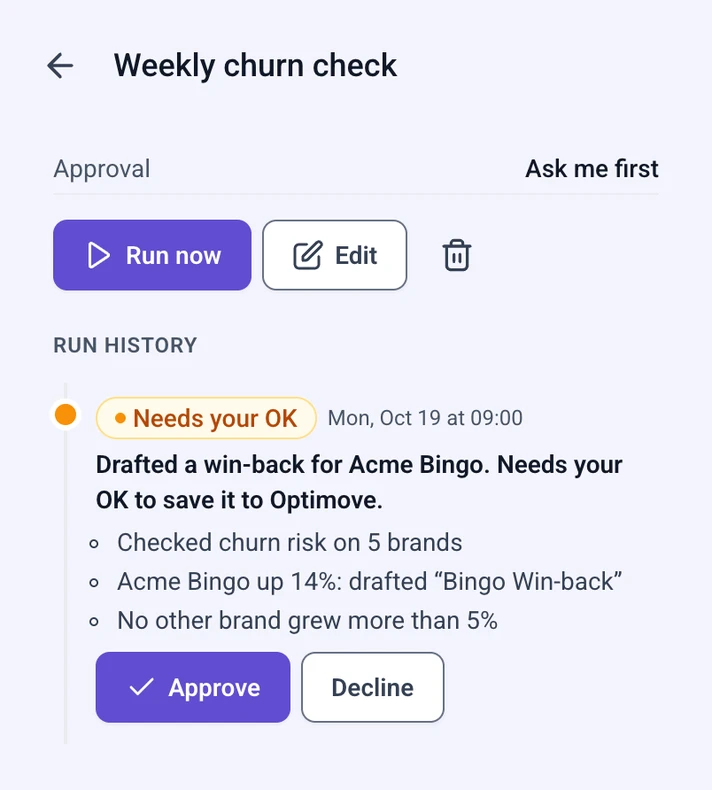
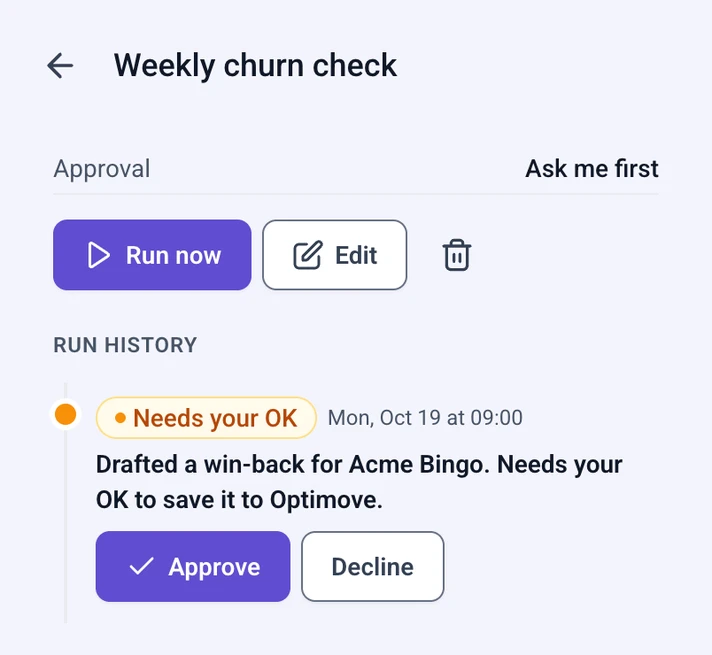
design(optigenie): decision panels on the app's brand-100 (#d8d8fa) so the screens stand off them; decision 03 drops the step bullets

diff --git a/optigenie.html b/optigenie.html
@@ -370,7 +370,7 @@
 .ux-block-head { display: block; margin-bottom: clamp(2rem, 3vw, 3rem); }
 .ux-block-head p { margin-top: .9rem; max-width: 72ch; }
     </style>
-<style>.wireframe-study .wireframe-figure{margin:auto 0 0}.wireframe-study .ads-shot img{cursor:default}@media (min-width:721px){.ads-meta{grid-template-columns:repeat(3,minmax(0,1fr))}}.wireframe-grid.streams-three{grid-template-columns:repeat(3,minmax(0,1fr))}#build .ux-block{margin-top:var(--block-gap)}.ads-wrap > .media-story.media-story--lead{margin-top:0;padding-top:0;border-top:0}.media-story.media-story--lead .ads-h2{max-width:16ch;margin:0 0 1.5rem}@media (max-width:1100px){.wireframe-grid.streams-three{grid-template-columns:minmax(0,1fr)}}.princ,.story-phases article{border-top:0;padding-top:0}.intro-copy .ads-body + .ads-body{margin-top:1rem}#dry-run .story-opening--page + .case-figure,#decisions .story-opening--page + .case-figure{margin-top:clamp(2.5rem,4vw,4rem);padding-top:0;border-top:0}#decisions .case-figure + .case-figure{margin-top:clamp(1.5rem,2.5vw,2.5rem);padding-top:0;border-top:0}.story-phases h3{max-width:none}.og-decisions{display:grid;grid-template-columns:repeat(3,minmax(0,1fr));gap:clamp(1.5rem,2.5vw,2.5rem);margin-top:clamp(3rem,5vw,5rem)}.og-dcard{display:flex;flex-direction:column}.og-dcard__fig{position:relative;margin:0 0 1.75rem;aspect-ratio:1/1;border-radius:24px;background:#ededfb;overflow:hidden}.og-dcard__fig img{position:absolute;left:50%;top:50%;transform:translate(-50%,-50%);width:56%;height:auto;border-radius:16px;box-shadow:0 0 0 1px rgba(29,24,80,.08)}.og-dcard h3{font-size:clamp(1.25rem,1.7vw,1.5rem);line-height:1.2;margin:.75rem 0 .75rem}.og-dcard .phase{display:block;color:var(--violet);font-size:.75rem;font-weight:600;line-height:1.5;letter-spacing:.12em;text-transform:uppercase}.og-dcard > p:not(.og-instead){margin:0;font-size:clamp(1rem,1.1vw,1.125rem);line-height:1.7;color:var(--text);max-width:42ch}.og-dcard .og-instead{margin-top:auto;padding-top:1.25rem}.og-dcard > p:not(.og-instead){margin-bottom:1.5rem}@media (max-width:900px){.og-decisions{grid-template-columns:minmax(0,1fr)}.og-dcard__fig{aspect-ratio:1/1}}.og-vs{display:grid;grid-template-columns:1fr 1fr;margin-top:1rem;text-align:center;font-size:.85rem;font-weight:600;color:var(--muted)}.og-vs span:last-child{color:var(--violet)}.og-instead{margin-top:1.75rem;padding-top:1.25rem;border-top:1px solid var(--line);color:var(--muted);font-size:.95rem;line-height:1.55}.og-instead span{display:block;color:var(--violet);font-size:.7rem;font-weight:600;letter-spacing:.12em;text-transform:uppercase;margin-bottom:.4rem}.story-opening--page .intro-copy{max-width:110ch}@media (min-width:1500px){.story-phases h3{white-space:nowrap}}@media (min-width:1100px){}</style>
+<style>.wireframe-study .wireframe-figure{margin:auto 0 0}.wireframe-study .ads-shot img{cursor:default}@media (min-width:721px){.ads-meta{grid-template-columns:repeat(3,minmax(0,1fr))}}.wireframe-grid.streams-three{grid-template-columns:repeat(3,minmax(0,1fr))}#build .ux-block{margin-top:var(--block-gap)}.ads-wrap > .media-story.media-story--lead{margin-top:0;padding-top:0;border-top:0}.media-story.media-story--lead .ads-h2{max-width:16ch;margin:0 0 1.5rem}@media (max-width:1100px){.wireframe-grid.streams-three{grid-template-columns:minmax(0,1fr)}}.princ,.story-phases article{border-top:0;padding-top:0}.intro-copy .ads-body + .ads-body{margin-top:1rem}#dry-run .story-opening--page + .case-figure,#decisions .story-opening--page + .case-figure{margin-top:clamp(2.5rem,4vw,4rem);padding-top:0;border-top:0}#decisions .case-figure + .case-figure{margin-top:clamp(1.5rem,2.5vw,2.5rem);padding-top:0;border-top:0}.story-phases h3{max-width:none}.og-decisions{display:grid;grid-template-columns:repeat(3,minmax(0,1fr));gap:clamp(1.5rem,2.5vw,2.5rem);margin-top:clamp(3rem,5vw,5rem)}.og-dcard{display:flex;flex-direction:column}.og-dcard__fig{position:relative;margin:0 0 1.75rem;aspect-ratio:1/1;border-radius:24px;background:#d8d8fa;overflow:hidden}.og-dcard__fig img{position:absolute;left:50%;top:50%;transform:translate(-50%,-50%);width:56%;height:auto;border-radius:16px;box-shadow:0 0 0 1px rgba(29,24,80,.10)}.og-dcard h3{font-size:clamp(1.25rem,1.7vw,1.5rem);line-height:1.2;margin:.75rem 0 .75rem}.og-dcard .phase{display:block;color:var(--violet);font-size:.75rem;font-weight:600;line-height:1.5;letter-spacing:.12em;text-transform:uppercase}.og-dcard > p:not(.og-instead){margin:0;font-size:clamp(1rem,1.1vw,1.125rem);line-height:1.7;color:var(--text);max-width:42ch}.og-dcard .og-instead{margin-top:auto;padding-top:1.25rem}.og-dcard > p:not(.og-instead){margin-bottom:1.5rem}@media (max-width:900px){.og-decisions{grid-template-columns:minmax(0,1fr)}.og-dcard__fig{aspect-ratio:1/1}}.og-vs{display:grid;grid-template-columns:1fr 1fr;margin-top:1rem;text-align:center;font-size:.85rem;font-weight:600;color:var(--muted)}.og-vs span:last-child{color:var(--violet)}.og-instead{margin-top:1.75rem;padding-top:1.25rem;border-top:1px solid var(--line);color:var(--muted);font-size:.95rem;line-height:1.55}.og-instead span{display:block;color:var(--violet);font-size:.7rem;font-weight:600;letter-spacing:.12em;text-transform:uppercase;margin-bottom:.4rem}.story-opening--page .intro-copy{max-width:110ch}@media (min-width:1500px){.story-phases h3{white-space:nowrap}}@media (min-width:1100px){}</style>
 <style>
 /* Animated pencil sketches (sketch_anim.py). Without the .is-armed hook everything is simply drawn. */
 @font-face{font-family:Caveat;font-style:normal;font-weight:500;font-display:swap;src:url(./assets/streams/caveat-500.ttf) format("truetype")}
@@ -898,7 +898,7 @@ body::after { content: ""; position: fixed; inset: 0; z-index: 9000; pointer-eve
             <p class="sub fade-up">OptiGenie is Optimove’s AI assistant for CRM marketers and the managers who follow their work. I led its first mobile app from the UX and feature set to the MVP.</p>
         </div></section>
         <section class="ads-sec ads-sec--mist" id="challenge" data-rail="The challenge"><div class="ads-wrap"><div class="story-opening story-opening--page story-opening--sketch"><div class="ads-head fade-up"><p class="ads-label page-chapter">The challenge</p><h2 class="ads-h2">Bringing OptiGenie to mobile</h2><p class="ads-body">OptiGenie 3.1 had grown on desktop, with memory, artifacts, dashboards and scheduled tasks, all inside one long conversation. I led its move to the phone, a strategic product for the company, from the first UX decisions and feature set to the MVP.</p><p class="ads-body">On the phone it serves two users with overlapping needs. CRM marketers want a fast, clear update and a bird’s-eye view of their brands and campaigns, then to act on what needs them. Managers want the picture of the marketing activity without running it. Rather than two apps, both start from the same summary and go as deep as they need: Dashboards for the view at a glance, Explore and Tasks for acting on it.</p><p class="ads-body">Three things made that hard.</p><p class="ads-body"><strong>A lot to look at, one right story.</strong> Optimove holds a lot of data and a lot of things to view: brands, campaigns, customers and channels, plus memory, artifacts, dashboards and tasks. On a small screen it can’t all be shown at once, so the app has to navigate it for the marketer and tell the right story: what changed, what matters and what needs them.</p><p class="ads-body"><strong>Answers came as paragraphs.</strong> The figures were right, but on a small screen the marketer read a wall of words to find the one number that mattered.</p><p class="ads-body"><strong>The AI acts on its own.</strong> Tasks run on a schedule and can change campaigns, so the marketer has to see what it did and decide what it may do without asking.</p><p class="ads-body">The work was to answer all three in one product for the phone, on the Optimove design system.</p></div><figure class="story-sketch fade-up" tabindex="0" aria-label="The challenge; scroll sideways on small screens"><svg class="mg" id="mg-og-challenge" viewBox="0 0 520 710" role="img" aria-label="OptiGenie 3.1 on desktop (memory, artifacts, dashboards and tasks) becomes one mobile app on the Optimove design system: Optimove's first mobile app, led from UX to MVP, and growing past the MVP." data-dur="7.6" xmlns="http://www.w3.org/2000/svg"><g aria-hidden="true"><g class="drop" style="--d:0.00s"><rect x="40" y="29" width="440" height="160" rx="16" fill="#aca4ea" stroke="#1d1850" stroke-width="2.0"/><rect x="40" y="20" width="440" height="160" rx="16" fill="#ffffff" stroke="#1d1850" stroke-width="2.0"/><path d="M51.2 23.2 H468.8" stroke="#ffffff" stroke-width="2.4" stroke-linecap="round" opacity=".75" fill="none"/><g transform="translate(260.0 60) scale(1.0)"><path class="tx" d="M-20 -14 H20 V10 H-20 Z" fill="#ffffff" stroke="none" style="--d:0.40s;--t:.3s"/><path class="dr" d="M-20 -14 H20 V10 H-20 Z" pathLength="1" fill="none" stroke="#1d1850" stroke-width="3.0" stroke-linecap="round" stroke-linejoin="round" style="--d:0.30s;--t:0.35s"/><path class="dr" d="M-6 10 V16 M6 10 V16 M-10 16 H10" pathLength="1" fill="none" stroke="#1d1850" stroke-width="3.0" stroke-linecap="round" stroke-linejoin="round" style="--d:0.42s;--t:0.35s"/></g><g class="pop" style="--d:0.45s"><circle cx="466" cy="26" r="17" fill="#4a37c9" stroke="#1d1850" stroke-width="2.0"/><circle cx="466" cy="22" r="17" fill="#8f7af8" stroke="#1d1850" stroke-width="2.0"/><g transform="translate(466 22) scale(0.45)"><path class="dr" d="M0 -18 C1.5 -6 6 -1.5 18 0 C6 1.5 1.5 6 0 18 C-1.5 6 -6 1.5 -18 0 C-6 -1.5 -1.5 -6 0 -18 Z" pathLength="1" fill="none" stroke="#ffffff" stroke-width="4.4" stroke-linecap="round" stroke-linejoin="round" style="--d:0.65s;--t:0.35s"/></g></g></g><text class="w" x="260.0" y="106" font-size="25" font-weight="800" text-anchor="middle" fill="#1d1850" data-max="416" style="--d:0.30s;--t:0.45s">OptiGenie 3.1</text><text class="tx mut" x="260.0" y="133" font-size="16" font-weight="500" text-anchor="middle" fill="#1d1850" data-max="416" style="--d:0.45s;--t:0.40s">on desktop: memory, artifacts,</text><text class="tx mut" x="260.0" y="155" font-size="16" font-weight="500" text-anchor="middle" fill="#1d1850" data-max="416" style="--d:0.53s;--t:0.40s">dashboards and tasks</text><path class="dr" d="M260 194 Q260.0 215.0 260 236" pathLength="1" fill="none" stroke="#1d1850" stroke-width="2.8" stroke-linecap="round" style="--d:0.70s;--t:0.30s"/><path class="dr" d="M254.7 226.3 L260 236 L265.3 226.3" pathLength="1" fill="none" stroke="#1d1850" stroke-width="2.8" stroke-linecap="round" stroke-linejoin="round" style="--d:0.94s;--t:.2s"/><g class="drop" style="--d:1.00s"><rect x="40" y="259" width="440" height="160" rx="16" fill="#c6e92b" stroke="#1d1850" stroke-width="2.0"/><rect x="40" y="250" width="440" height="160" rx="16" fill="#ffffff" stroke="#1d1850" stroke-width="2.0"/><path d="M51.2 253.2 H468.8" stroke="#ffffff" stroke-width="2.4" stroke-linecap="round" opacity=".75" fill="none"/><g transform="translate(260.0 290) scale(1.0)"><path class="tx" d="M-12 -20 H12 V20 H-12 Z" fill="#ffffff" stroke="none" style="--d:1.40s;--t:.3s"/><path class="dr" d="M-12 -20 H12 V20 H-12 Z" pathLength="1" fill="none" stroke="#1d1850" stroke-width="3.0" stroke-linecap="round" stroke-linejoin="round" style="--d:1.30s;--t:0.35s"/><path class="dr" d="M-4 15 H4" pathLength="1" fill="none" stroke="#1d1850" stroke-width="3.0" stroke-linecap="round" stroke-linejoin="round" style="--d:1.42s;--t:0.35s"/></g></g><text class="w" x="260.0" y="336" font-size="25" font-weight="800" text-anchor="middle" fill="#1d1850" data-max="416" style="--d:1.30s;--t:0.45s">One mobile app</text><text class="tx mut" x="260.0" y="363" font-size="16" font-weight="500" text-anchor="middle" fill="#1d1850" data-max="416" style="--d:1.45s;--t:0.40s">on the Optimove</text><text class="tx mut" x="260.0" y="385" font-size="16" font-weight="500" text-anchor="middle" fill="#1d1850" data-max="416" style="--d:1.53s;--t:0.40s">design system</text><path class="dr" d="M260 424 Q260.0 445.0 260 466" pathLength="1" fill="none" stroke="#1d1850" stroke-width="2.8" stroke-linecap="round" style="--d:1.70s;--t:0.30s"/><path class="dr" d="M254.7 456.3 L260 466 L265.3 456.3" pathLength="1" fill="none" stroke="#1d1850" stroke-width="2.8" stroke-linecap="round" stroke-linejoin="round" style="--d:1.94s;--t:.2s"/><g class="drop" style="--d:2.00s"><rect x="40" y="489" width="440" height="160" rx="16" fill="#aca4ea" stroke="#1d1850" stroke-width="2.0"/><rect x="40" y="480" width="440" height="160" rx="16" fill="#ffffff" stroke="#1d1850" stroke-width="2.0"/><path d="M51.2 483.2 H468.8" stroke="#ffffff" stroke-width="2.4" stroke-linecap="round" opacity=".75" fill="none"/><g transform="translate(260.0 520) scale(1.0)"><path class="tx" d="M-18 0 a18 18 0 1 0 36 0 a18 18 0 1 0 -36 0" fill="#ffffff" stroke="none" style="--d:2.40s;--t:.3s"/><path class="dr" d="M-18 0 a18 18 0 1 0 36 0 a18 18 0 1 0 -36 0" pathLength="1" fill="none" stroke="#1d1850" stroke-width="3.0" stroke-linecap="round" stroke-linejoin="round" style="--d:2.30s;--t:0.35s"/><path class="dr" d="M-5 -8 L9 0 L-5 8 Z" pathLength="1" fill="none" stroke="#1d1850" stroke-width="3.0" stroke-linecap="round" stroke-linejoin="round" style="--d:2.42s;--t:0.35s"/></g></g><text class="w" x="260.0" y="566" font-size="25" font-weight="800" text-anchor="middle" fill="#1d1850" data-max="416" style="--d:2.30s;--t:0.45s">A strategic first</text><text class="tx mut" x="260.0" y="593" font-size="16" font-weight="500" text-anchor="middle" fill="#1d1850" data-max="416" style="--d:2.45s;--t:0.40s">Optimove’s first mobile app,</text><text class="tx mut" x="260.0" y="615" font-size="16" font-weight="500" text-anchor="middle" fill="#1d1850" data-max="416" style="--d:2.53s;--t:0.40s">led from UX to MVP</text><text class="tx mut" x="260" y="690" font-size="17" font-weight="600" text-anchor="middle" fill="#1d1850" data-max="400" style="--d:2.70s;--t:0.40s">and growing past the MVP</text></g></svg></figure></div></div></section>
-        <section class="ads-sec" id="discovery" data-rail="Discovery &amp; definition"><div class="ads-wrap"><p class="ads-label page-chapter fade-up">Discovery &amp; definition</p><div class="story-opening story-opening--page story-opening--stack"><div class="ads-head fade-up"><h2 class="ads-h2">Main UX decisions</h2></div><div class="intro-copy fade-up"><p class="ads-body">Bringing OptiGenie 3.1 from desktop to the phone meant more than fitting it on a smaller screen. On desktop it is a long conversation in a wide window; on a phone, a visit is often a quick check. Every call came back to one question: what does the marketer need in the first few seconds, and what can wait a tap away. These are the decisions that shaped the app most: where you start, where things live, what the AI does on its own, and how it shows an answer.</p></div></div><div class="og-decisions"><article class="og-dcard fade-up"><figure class="og-dcard__fig"><img loading="lazy" decoding="async" src="./assets/optigenie/dec-home.webp?v=86b87a72cff6" width="712" height="862" alt="The OptiGenie home: a greeting, the next scheduled tasks under Coming up, and two suggested questions."></figure><span class="phase">01 · Starting point</span><h3>Open on what matters</h3><p>The home says what OptiGenie can do and what is coming up next, and suggests the questions worth asking.</p><p class="og-instead"><span>Instead of</span> an empty box waiting for the right question.</p></article><article class="og-dcard fade-up"><figure class="og-dcard__fig"><img loading="lazy" decoding="async" src="./assets/optigenie/dec-tabs.webp?v=cd8b29443c0f" width="712" height="1113" alt="The Dashboards tab: a live Deposits yesterday dashboard with its chart and refresh time, and the Explore and Dashboards switch at the bottom."></figure><span class="phase">02 · Structure</span><h3>Explore and Dashboards as tabs</h3><p>Marketers ask new questions, and they check the same numbers every morning. The views they follow get their own tab, refreshed on a schedule, a swipe from where they ask: the conversation is the way in, not the whole product. Everything else sits in one menu, on every screen.</p><p class="og-instead"><span>Instead of</span> one long chat history that holds everything.</p></article><article class="og-dcard fade-up"><figure class="og-dcard__fig"><img loading="lazy" decoding="async" src="./assets/optigenie/dec-approval.webp?v=bac02dbf3287" width="712" height="790" alt="The Weekly churn check task, set to Approval: Ask me first, with Run now and Edit. Its latest run Needs your OK: the steps OptiGenie took, a drafted win-back for Acme Bingo, and Approve and Decline."></figure><span class="phase">03 · Trust</span><h3>Visible steps, approval by choice</h3><p>OptiGenie shows the steps it takes while it works. Whether a task asks before it changes anything in Optimove is the marketer’s call: Ask me first or Run on its own. Sending to customers always asks.</p><p class="og-instead"><span>Instead of</span> an AI that acts without showing what it did.</p></article></div><div class="media-story"><div class="media-story-copy fade-up"><div><p class="media-kicker">04 · Answers</p><h3>Answers you can see, not read</h3></div><div><p>The model answered in text. The figures were there, but on a phone the marketer had to read through a list of numbers to find the point.</p><p>My call was to teach the model how we build. I adapted the skill I built for composing Optimove screens: the component catalog, which block fits which kind of figure, and how a dashboard tells its story. With it, the model answers in blocks that the app draws with its own components: the point in one sentence, a key figure with its change, the chart that fits, and a short takeaway.</p><p>Same question, same data: on the left the model on its own, on the right with the skill, which builds the answer as a small dashboard. In a test on eight questions from the app, the text answers averaged about 105 words and 20 numbers. With the skill they averaged 35 words, with the figures in charts and cards. See the skill on the AI skills for product design page.</p></div></div><figure class="case-figure fade-up" style="--media-max:900px"><div class="ads-shot recording-frame" data-title="The same question, How are my brands doing?, answered twice and scrolled. Left, the model on its own: bullet lists of figures. Right, with the skill: a dashboard with a hero card of deposits and a week of bars, KPI cards with their changes and a breakdown by brand."><video src="./assets/optigenie/og-answers-skill.mp4?v=9c0c17fae960" poster="./assets/optigenie/og-answers-skill-poster.webp?v=5db4326e23c1" width="1896" height="1692" loop muted playsinline preload="none" aria-label="The same question, How are my brands doing?, answered twice and scrolled. Left, the model on its own: bullet lists of figures. Right, with the skill: a dashboard with a hero card of deposits and a week of bars, KPI cards with their changes and a breakdown by brand."></video></div><figcaption class="og-vs"><span>Without the skill</span><span>With the skill</span></figcaption></figure></div></div></section>
+        <section class="ads-sec" id="discovery" data-rail="Discovery &amp; definition"><div class="ads-wrap"><p class="ads-label page-chapter fade-up">Discovery &amp; definition</p><div class="story-opening story-opening--page story-opening--stack"><div class="ads-head fade-up"><h2 class="ads-h2">Main UX decisions</h2></div><div class="intro-copy fade-up"><p class="ads-body">Bringing OptiGenie 3.1 from desktop to the phone meant more than fitting it on a smaller screen. On desktop it is a long conversation in a wide window; on a phone, a visit is often a quick check. Every call came back to one question: what does the marketer need in the first few seconds, and what can wait a tap away. These are the decisions that shaped the app most: where you start, where things live, what the AI does on its own, and how it shows an answer.</p></div></div><div class="og-decisions"><article class="og-dcard fade-up"><figure class="og-dcard__fig"><img loading="lazy" decoding="async" src="./assets/optigenie/dec-home.webp?v=86b87a72cff6" width="712" height="862" alt="The OptiGenie home: a greeting, the next scheduled tasks under Coming up, and two suggested questions."></figure><span class="phase">01 · Starting point</span><h3>Open on what matters</h3><p>The home says what OptiGenie can do and what is coming up next, and suggests the questions worth asking.</p><p class="og-instead"><span>Instead of</span> an empty box waiting for the right question.</p></article><article class="og-dcard fade-up"><figure class="og-dcard__fig"><img loading="lazy" decoding="async" src="./assets/optigenie/dec-tabs.webp?v=cd8b29443c0f" width="712" height="1113" alt="The Dashboards tab: a live Deposits yesterday dashboard with its chart and refresh time, and the Explore and Dashboards switch at the bottom."></figure><span class="phase">02 · Structure</span><h3>Explore and Dashboards as tabs</h3><p>Marketers ask new questions, and they check the same numbers every morning. The views they follow get their own tab, refreshed on a schedule, a swipe from where they ask: the conversation is the way in, not the whole product. Everything else sits in one menu, on every screen.</p><p class="og-instead"><span>Instead of</span> one long chat history that holds everything.</p></article><article class="og-dcard fade-up"><figure class="og-dcard__fig"><img loading="lazy" decoding="async" src="./assets/optigenie/dec-approval.webp?v=2be99e6d69ad" width="712" height="655" alt="The Weekly churn check task, set to Approval: Ask me first, with Run now and Edit. Its latest run Needs your OK: a drafted win-back for Acme Bingo, with Approve and Decline."></figure><span class="phase">03 · Trust</span><h3>Visible steps, approval by choice</h3><p>OptiGenie shows the steps it takes while it works. Whether a task asks before it changes anything in Optimove is the marketer’s call: Ask me first or Run on its own. Sending to customers always asks.</p><p class="og-instead"><span>Instead of</span> an AI that acts without showing what it did.</p></article></div><div class="media-story"><div class="media-story-copy fade-up"><div><p class="media-kicker">04 · Answers</p><h3>Answers you can see, not read</h3></div><div><p>The model answered in text. The figures were there, but on a phone the marketer had to read through a list of numbers to find the point.</p><p>My call was to teach the model how we build. I adapted the skill I built for composing Optimove screens: the component catalog, which block fits which kind of figure, and how a dashboard tells its story. With it, the model answers in blocks that the app draws with its own components: the point in one sentence, a key figure with its change, the chart that fits, and a short takeaway.</p><p>Same question, same data: on the left the model on its own, on the right with the skill, which builds the answer as a small dashboard. In a test on eight questions from the app, the text answers averaged about 105 words and 20 numbers. With the skill they averaged 35 words, with the figures in charts and cards. See the skill on the AI skills for product design page.</p></div></div><figure class="case-figure fade-up" style="--media-max:900px"><div class="ads-shot recording-frame" data-title="The same question, How are my brands doing?, answered twice and scrolled. Left, the model on its own: bullet lists of figures. Right, with the skill: a dashboard with a hero card of deposits and a week of bars, KPI cards with their changes and a breakdown by brand."><video src="./assets/optigenie/og-answers-skill.mp4?v=9c0c17fae960" poster="./assets/optigenie/og-answers-skill-poster.webp?v=5db4326e23c1" width="1896" height="1692" loop muted playsinline preload="none" aria-label="The same question, How are my brands doing?, answered twice and scrolled. Left, the model on its own: bullet lists of figures. Right, with the skill: a dashboard with a hero card of deposits and a week of bars, KPI cards with their changes and a breakdown by brand."></video></div><figcaption class="og-vs"><span>Without the skill</span><span>With the skill</span></figcaption></figure></div></div></section>
         <section class="ads-sec ads-sec--mist" id="ux-process" data-rail="UX decisions &amp; flows"><div class="ads-wrap"><p class="ads-label page-chapter fade-up">UX decisions &amp; flows</p><div class="story-opening story-opening--page story-opening--sketch"><div class="ads-head fade-up"><h2 class="ads-h2">Navigation model</h2><p class="ads-body">Every screen is a step from Explore or Dashboards, and the menu opens from all of them. Back always goes up one level: a task returns to the task list, a dashboard opened from the full list returns there.</p><p class="ads-body">Swipe and tap do the same thing, with the same motion, so the two never feel like different actions.</p></div><figure class="story-sketch fade-up" tabindex="0" aria-label="App map; scroll sideways on small screens"><svg class="mg" id="mg-og-flow" viewBox="0 0 1200 500" role="img" aria-label="Sign-in leads to Explore, which swaps with Dashboards by a swipe. Explore opens an answer that can be saved as a dashboard; Dashboards opens a live dashboard. The menu opens from every screen and holds Tasks, Artifacts, Chats and Settings. Back always goes up one level." data-dur="7.6" xmlns="http://www.w3.org/2000/svg"><g aria-hidden="true"><g class="drop" style="--d:0.00s"><rect x="20" y="69" width="210" height="150" rx="16" fill="#aca4ea" stroke="#1d1850" stroke-width="2.0"/><rect x="20" y="60" width="210" height="150" rx="16" fill="#ffffff" stroke="#1d1850" stroke-width="2.0"/><path d="M31.2 63.2 H218.8" stroke="#ffffff" stroke-width="2.4" stroke-linecap="round" opacity=".75" fill="none"/><g transform="translate(125.0 100) scale(1.0)"><path class="tx" d="M-16 -6 a16 16 0 0 1 32 0 V14 H-16 Z" fill="#ffffff" stroke="none" style="--d:0.40s;--t:.3s"/><path class="dr" d="M-16 -6 a16 16 0 0 1 32 0 V14 H-16 Z" pathLength="1" fill="none" stroke="#1d1850" stroke-width="3.0" stroke-linecap="round" stroke-linejoin="round" style="--d:0.30s;--t:0.35s"/><path class="dr" d="M-6 -6 a6 6 0 0 1 12 0" pathLength="1" fill="none" stroke="#1d1850" stroke-width="3.0" stroke-linecap="round" stroke-linejoin="round" style="--d:0.42s;--t:0.35s"/></g></g><text class="w" x="125.0" y="146" font-size="25" font-weight="800" text-anchor="middle" fill="#1d1850" data-max="186" style="--d:0.30s;--t:0.45s">Sign-in</text><text class="tx mut" x="125.0" y="173" font-size="16" font-weight="500" text-anchor="middle" fill="#1d1850" data-max="186" style="--d:0.45s;--t:0.40s">once, then remembered</text><path class="dr" d="M240 135 Q270.0 135.0 300 135" pathLength="1" fill="none" stroke="#1d1850" stroke-width="2.8" stroke-linecap="round" style="--d:0.50s;--t:0.30s"/><path class="dr" d="M291.2 139.8 L300 135 L291.2 130.2" pathLength="1" fill="none" stroke="#1d1850" stroke-width="2.8" stroke-linecap="round" stroke-linejoin="round" style="--d:0.74s;--t:.2s"/><g class="drop" style="--d:0.70s"><rect x="310" y="69" width="210" height="150" rx="16" fill="#aca4ea" stroke="#1d1850" stroke-width="2.0"/><rect x="310" y="60" width="210" height="150" rx="16" fill="#ffffff" stroke="#1d1850" stroke-width="2.0"/><path d="M321.2 63.2 H508.8" stroke="#ffffff" stroke-width="2.4" stroke-linecap="round" opacity=".75" fill="none"/><g transform="translate(415.0 100) scale(1.0)"><path class="tx" d="M-19 -15 H19 V8 H-4 L-13 17 V8 H-19 Z" fill="#ffffff" stroke="none" style="--d:1.10s;--t:.3s"/><path class="dr" d="M-19 -15 H19 V8 H-4 L-13 17 V8 H-19 Z" pathLength="1" fill="none" stroke="#1d1850" stroke-width="3.0" stroke-linecap="round" stroke-linejoin="round" style="--d:1.00s;--t:0.35s"/><path class="dr" d="M-10 -4 H10" pathLength="1" fill="none" stroke="#1d1850" stroke-width="3.0" stroke-linecap="round" stroke-linejoin="round" style="--d:1.12s;--t:0.35s"/><path class="dr" d="M-10 2 H4" pathLength="1" fill="none" stroke="#1d1850" stroke-width="3.0" stroke-linecap="round" stroke-linejoin="round" style="--d:1.24s;--t:0.35s"/></g></g><text class="w" x="415.0" y="146" font-size="25" font-weight="800" text-anchor="middle" fill="#1d1850" data-max="186" style="--d:1.00s;--t:0.45s">Explore</text><text class="tx mut" x="415.0" y="173" font-size="16" font-weight="500" text-anchor="middle" fill="#1d1850" data-max="186" style="--d:1.15s;--t:0.40s">ask</text><g class="drop" style="--d:1.10s"><rect x="600" y="69" width="210" height="150" rx="16" fill="#c6e92b" stroke="#1d1850" stroke-width="2.0"/><rect x="600" y="60" width="210" height="150" rx="16" fill="#ffffff" stroke="#1d1850" stroke-width="2.0"/><path d="M611.2 63.2 H798.8" stroke="#ffffff" stroke-width="2.4" stroke-linecap="round" opacity=".75" fill="none"/><g transform="translate(705.0 100) scale(1.0)"><path class="dr" d="M-15 15 V3" pathLength="1" fill="none" stroke="#1d1850" stroke-width="3.0" stroke-linecap="round" stroke-linejoin="round" style="--d:1.40s;--t:0.35s"/><path class="dr" d="M-5 15 V-7" pathLength="1" fill="none" stroke="#1d1850" stroke-width="3.0" stroke-linecap="round" stroke-linejoin="round" style="--d:1.52s;--t:0.35s"/><path class="dr" d="M5 15 V-1" pathLength="1" fill="none" stroke="#1d1850" stroke-width="3.0" stroke-linecap="round" stroke-linejoin="round" style="--d:1.64s;--t:0.35s"/><path class="dr" d="M15 15 V-15" pathLength="1" fill="none" stroke="#1d1850" stroke-width="3.0" stroke-linecap="round" stroke-linejoin="round" style="--d:1.76s;--t:0.35s"/><path class="dr" d="M-20 15 H20" pathLength="1" fill="none" stroke="#1d1850" stroke-width="3.0" stroke-linecap="round" stroke-linejoin="round" style="--d:1.88s;--t:0.35s"/></g></g><text class="w" x="705.0" y="146" font-size="25" font-weight="800" text-anchor="middle" fill="#1d1850" data-max="186" style="--d:1.40s;--t:0.45s">Dashboards</text><text class="tx mut" x="705.0" y="173" font-size="16" font-weight="500" text-anchor="middle" fill="#1d1850" data-max="186" style="--d:1.55s;--t:0.40s">follow</text><path class="dr" d="M530 118 Q560.0 118.0 590 118" pathLength="1" fill="none" stroke="#1d1850" stroke-width="2.8" stroke-linecap="round" style="--d:1.50s;--t:0.25s"/><path class="dr" d="M581.2 122.8 L590 118 L581.2 113.2" pathLength="1" fill="none" stroke="#1d1850" stroke-width="2.8" stroke-linecap="round" stroke-linejoin="round" style="--d:1.70s;--t:.2s"/><path class="dr" d="M590 152 Q560.0 152.0 530 152" pathLength="1" fill="none" stroke="#1d1850" stroke-width="2.8" stroke-linecap="round" style="--d:1.60s;--t:0.25s"/><path class="dr" d="M538.8 147.2 L530 152 L538.8 156.8" pathLength="1" fill="none" stroke="#1d1850" stroke-width="2.8" stroke-linecap="round" stroke-linejoin="round" style="--d:1.80s;--t:.2s"/><text class="tx mut" x="560" y="190" font-size="17" font-weight="600" text-anchor="middle" fill="#1d1850" data-max="80" style="--d:1.70s;--t:0.40s">swipe</text><path class="dr" d="M415 226 Q415.0 256.0 415 286" pathLength="1" fill="none" stroke="#1d1850" stroke-width="2.8" stroke-linecap="round" style="--d:1.90s;--t:0.30s"/><path class="dr" d="M410.2 277.2 L415 286 L419.8 277.2" pathLength="1" fill="none" stroke="#1d1850" stroke-width="2.8" stroke-linecap="round" stroke-linejoin="round" style="--d:2.14s;--t:.2s"/><path class="dr" d="M705 226 Q705.0 256.0 705 286" pathLength="1" fill="none" stroke="#1d1850" stroke-width="2.8" stroke-linecap="round" style="--d:2.00s;--t:0.30s"/><path class="dr" d="M700.2 277.2 L705 286 L709.8 277.2" pathLength="1" fill="none" stroke="#1d1850" stroke-width="2.8" stroke-linecap="round" stroke-linejoin="round" style="--d:2.24s;--t:.2s"/><g class="drop" style="--d:2.20s"><rect x="310" y="305" width="210" height="120" rx="16" fill="#aca4ea" stroke="#1d1850" stroke-width="2.0"/><rect x="310" y="296" width="210" height="120" rx="16" fill="#ffffff" stroke="#1d1850" stroke-width="2.0"/><path d="M321.2 299.2 H508.8" stroke="#ffffff" stroke-width="2.4" stroke-linecap="round" opacity=".75" fill="none"/></g><text class="w" x="415.0" y="346" font-size="25" font-weight="800" text-anchor="middle" fill="#1d1850" data-max="186" style="--d:2.50s;--t:0.45s">Answer</text><text class="tx mut" x="415.0" y="373" font-size="16" font-weight="500" text-anchor="middle" fill="#1d1850" data-max="186" style="--d:2.65s;--t:0.40s">save it as a dashboard</text><g class="drop" style="--d:2.40s"><rect x="600" y="305" width="210" height="120" rx="16" fill="#aca4ea" stroke="#1d1850" stroke-width="2.0"/><rect x="600" y="296" width="210" height="120" rx="16" fill="#ffffff" stroke="#1d1850" stroke-width="2.0"/><path d="M611.2 299.2 H798.8" stroke="#ffffff" stroke-width="2.4" stroke-linecap="round" opacity=".75" fill="none"/></g><text class="w" x="705.0" y="346" font-size="25" font-weight="800" text-anchor="middle" fill="#1d1850" data-max="186" style="--d:2.70s;--t:0.45s">Dashboard</text><text class="tx mut" x="705.0" y="373" font-size="16" font-weight="500" text-anchor="middle" fill="#1d1850" data-max="186" style="--d:2.85s;--t:0.40s">live, on a schedule</text><g class="drop" style="--d:2.80s"><rect x="950" y="69" width="230" height="150" rx="16" fill="#aca4ea" stroke="#1d1850" stroke-width="2.0"/><rect x="950" y="60" width="230" height="150" rx="16" fill="#ffffff" stroke="#1d1850" stroke-width="2.0"/><path d="M961.2 63.2 H1168.8" stroke="#ffffff" stroke-width="2.4" stroke-linecap="round" opacity=".75" fill="none"/><g transform="translate(1065.0 100) scale(1.0)"><path class="dr" d="M-15 -9 H15" pathLength="1" fill="none" stroke="#1d1850" stroke-width="3.0" stroke-linecap="round" stroke-linejoin="round" style="--d:3.10s;--t:0.35s"/><path class="dr" d="M-15 0 H15" pathLength="1" fill="none" stroke="#1d1850" stroke-width="3.0" stroke-linecap="round" stroke-linejoin="round" style="--d:3.22s;--t:0.35s"/><path class="dr" d="M-15 9 H15" pathLength="1" fill="none" stroke="#1d1850" stroke-width="3.0" stroke-linecap="round" stroke-linejoin="round" style="--d:3.34s;--t:0.35s"/></g></g><text class="w" x="1065.0" y="146" font-size="25" font-weight="800" text-anchor="middle" fill="#1d1850" data-max="206" style="--d:3.10s;--t:0.45s">Menu</text><text class="tx mut" x="1065.0" y="173" font-size="16" font-weight="500" text-anchor="middle" fill="#1d1850" data-max="206" style="--d:3.25s;--t:0.40s">from every screen</text><path class="dr" d="M830 135 Q884.0 135.0 938 135" pathLength="1" fill="none" stroke="#1d1850" stroke-width="2.8" stroke-linecap="round" style="--d:3.10s;--t:0.35s"/><path class="dr" d="M928.3 140.3 L938 135 L928.3 129.7" pathLength="1" fill="none" stroke="#1d1850" stroke-width="2.8" stroke-linecap="round" stroke-linejoin="round" style="--d:3.38s;--t:.2s"/><path class="dr" d="M1065 226 Q1065.0 256.0 1065 286" pathLength="1" fill="none" stroke="#1d1850" stroke-width="2.8" stroke-linecap="round" style="--d:3.40s;--t:0.30s"/><path class="dr" d="M1060.2 277.2 L1065 286 L1069.8 277.2" pathLength="1" fill="none" stroke="#1d1850" stroke-width="2.8" stroke-linecap="round" stroke-linejoin="round" style="--d:3.64s;--t:.2s"/><g class="drop" style="--d:3.60s"><rect x="950" y="305" width="230" height="160" rx="16" fill="#aca4ea" stroke="#1d1850" stroke-width="2.0"/><rect x="950" y="296" width="230" height="160" rx="16" fill="#ffffff" stroke="#1d1850" stroke-width="2.0"/><path d="M961.2 299.2 H1168.8" stroke="#ffffff" stroke-width="2.4" stroke-linecap="round" opacity=".75" fill="none"/></g><text class="tx" x="980" y="332" font-size="19" font-weight="700" text-anchor="start" fill="#1d1850" data-max="180" style="--d:3.80s;--t:0.35s">Tasks</text><text class="tx" x="980" y="364" font-size="19" font-weight="700" text-anchor="start" fill="#1d1850" data-max="180" style="--d:3.90s;--t:0.35s">Artifacts</text><text class="tx" x="980" y="396" font-size="19" font-weight="700" text-anchor="start" fill="#1d1850" data-max="180" style="--d:4.00s;--t:0.35s">Chats</text><text class="tx" x="980" y="428" font-size="19" font-weight="700" text-anchor="start" fill="#1d1850" data-max="180" style="--d:4.10s;--t:0.35s">Settings</text><text class="tx mut" x="560" y="470" font-size="17" font-weight="600" text-anchor="middle" fill="#1d1850" data-max="520" style="--d:4.40s;--t:0.40s">back always goes up one level, by swipe or tap</text></g></svg></figure></div></div></section>
         <section class="ads-sec" id="ask" data-rail="Explore"><div class="ads-wrap"><p class="ads-label page-chapter fade-up">Explore</p><div class="media-story media-story--lead"><div class="media-story-copy fade-up"><div><h2 class="ads-h2">Answer layout</h2></div><div><p>The home opens on what is coming up and questions worth asking. Each answer follows decision 04: it leads with its point and key figure, then the chart that fits the data, with the steps OptiGenie took one tap away, so the marketer can check how it got there.</p></div></div><figure class="case-figure fade-up" style="--media-max:900px"><div class="ads-shot" data-full="./assets/optigenie/set-explore.webp?v=e248af05323f" data-width="1896" data-height="1692" data-title="Explore"><img loading="lazy" decoding="async" src="./assets/optigenie/set-explore.webp?v=e248af05323f" width="1896" height="1692" alt="The Explore home with upcoming tasks and suggested questions, and the answer to How are my brands doing?: deposits up 3.6% across five brands, a chart of yesterday’s deposits and the dashboard KPIs."></div></figure></div><div class="media-story"><div class="media-story-copy fade-up"><div><p class="media-kicker">From an answer</p><h3>Save as dashboard</h3></div><div><p>Any answer can become a dashboard. Pick how often it refreshes, and it joins the views you follow.</p></div></div><figure class="case-figure fade-up" style="--media-max:620px"><div class="ads-shot recording-frame" data-title="A churn question is asked, then the answer is saved as a dashboard that refreshes every day."><video src="./assets/optigenie/og-save.mp4?v=1be249759f98" poster="./assets/optigenie/og-save-poster.webp?v=13d20621507e" width="1896" height="1692" loop muted playsinline preload="none" aria-label="A churn question is asked, then the answer is saved as a dashboard that refreshes every day."></video></div></figure></div></div></section>
         <section class="ads-sec ads-sec--mist" id="dashboards" data-rail="Dashboards"><div class="ads-wrap"><p class="ads-label page-chapter fade-up">Dashboards</p><div class="media-story media-story--lead"><div class="media-story-copy fade-up"><div><h2 class="ads-h2">Dashboard creation</h2></div><div><p>Creating a dashboard shows OptiGenie working through it: what it reads, how it groups the data, which charts it picks and when it refreshes. Then it joins the tab, which opens on the views you follow, the next one peeking at the edge; a swipe moves between them and a tap opens one live. The numbers a marketer checks every morning shouldn’t need asking again, so they live in their own tab, not in chat history.</p></div></div><figure class="case-figure fade-up og-pair2"><div class="ads-shot recording-frame"><video src="./assets/optigenie/og-dash-build.mp4?v=ac68aaa19cb9" poster="./assets/optigenie/og-dash-build-poster.webp?v=bc414f184541" width="1000" height="1692" loop muted playsinline preload="none" aria-label="Promotions that work, by brand is typed in Dashboards, and OptiGenie builds it step by step."></video></div><div class="ads-shot recording-frame"><video src="./assets/optigenie/og-dash-swipe.mp4?v=1fd32f463b19" poster="./assets/optigenie/og-dash-swipe-poster.webp?v=912c43f8ae97" width="1000" height="1692" loop muted playsinline preload="none" aria-label="The Dashboards tab: a swipe through the live dashboards, then KPI trends opens."></video></div></figure></div></div></section>
